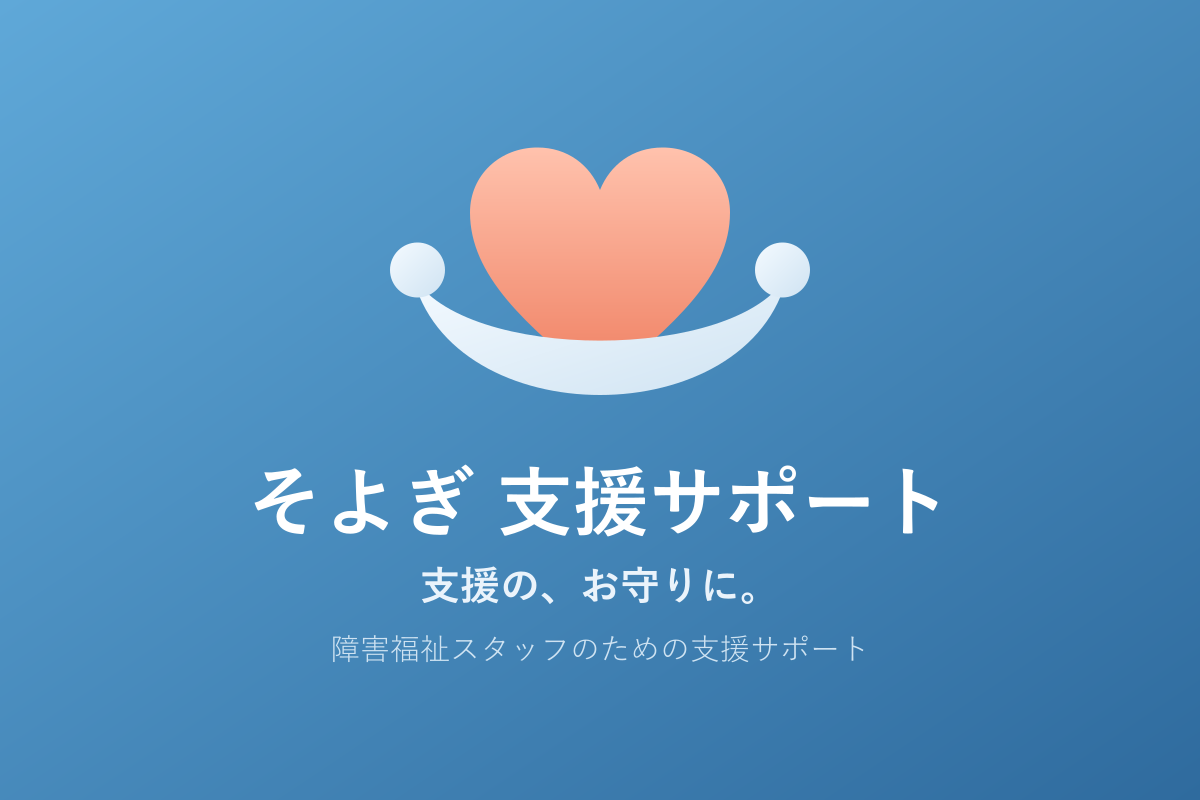
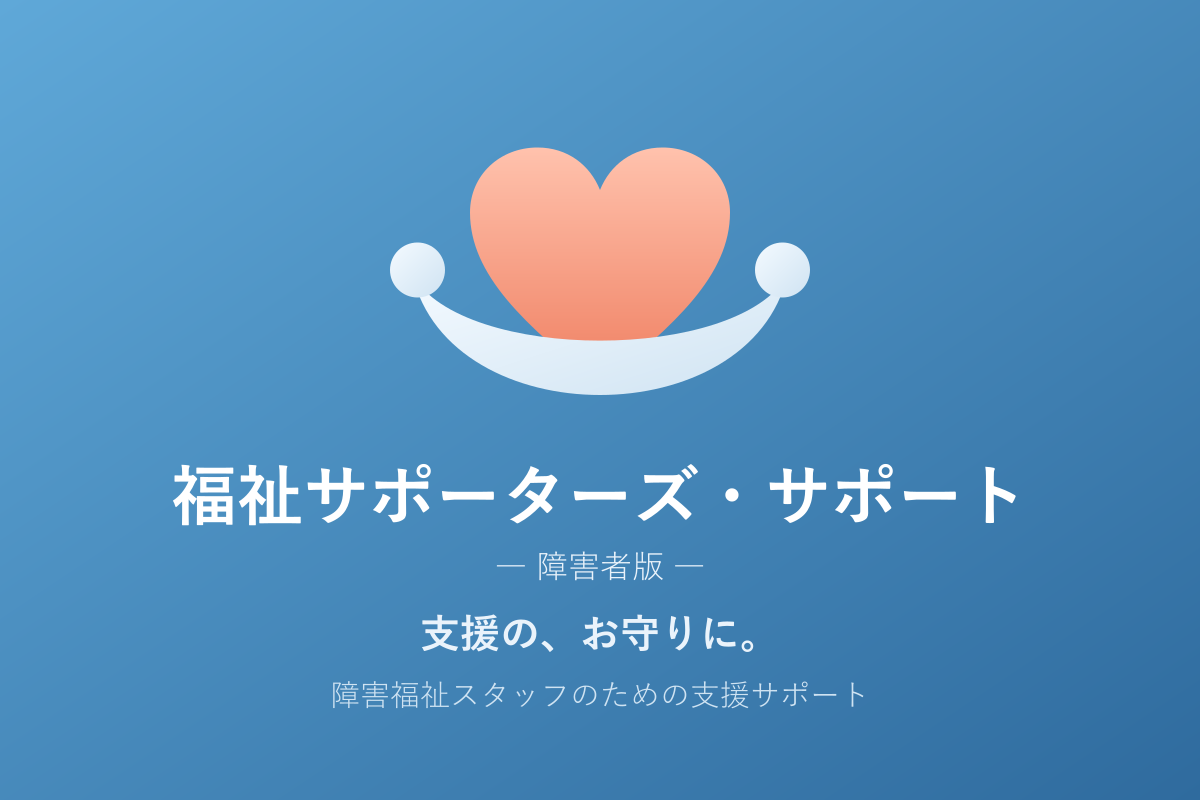
正式名称へ統一＋開発クレジット追加 — 「福祉サポーターズ・サポート（障害者版）」(旧:そよぎ 支援サポート)を全14言語appName/title/OGP/manifest/farcaster.json/埋め込み画像に反映・ホーム最下部に「アプリ開発：そよぎ」リンク・SW v26

Changed region(s): [[0.1233, 0.5625, 0.8633, 0.9062], [0.4008, 0.8438, 0.4317, 0.875]]

diff --git a/i18n.js b/i18n.js
@@ -1,5 +1,5 @@
 /*
- * そよぎ 支援サポート - UI文字列（i18n）
+ * 福祉サポーターズ・サポート（障害者版） - UI文字列（i18n）
  * 画面のラベル・ボタン等。コンテンツ本体は content.<lang>.js（SHIEN_CONTENT[lang]）。
  * 言語を足すときは：ここに SHIEN_UI.<lang> を追加し、content.<lang>.js を作る。
  * LANGS の並び順が言語切替メニューの順。dir:"rtl" は右書き言語。
@@ -26,7 +26,7 @@ window.SHIEN_LANGS = [
 
 window.SHIEN_UI.ja = {
   dir: "ltr",
-  appName: "そよぎ 支援サポート",
+  appName: "福祉サポーターズ・サポート（障害者版）",
   tagline: "支援の、お守りに。― 障害福祉スタッフのための支援サポート ―",
   nav: { scenes: "こまった", lookup: "しらべる", learn: "まなぶ", talk: "つたえる" },
   back: "← もどる",
@@ -108,7 +108,7 @@ window.SHIEN_UI.ja = {
 
 window.SHIEN_UI.en = {
   dir: "ltr",
-  appName: "Soyogi Support Guide",
+  appName: "Welfare Supporters' Support (Disability Edition)",
   tagline: "A little guardian for support. — for disability-support staff —",
   nav: { scenes: "When stuck", lookup: "Look up", learn: "Learn", talk: "Communicate" },
   back: "← Back",
@@ -190,7 +190,7 @@ window.SHIEN_UI.en = {
 
 window.SHIEN_UI.zh = {
   dir: "ltr",
-  appName: "Soyogi 支援指南",
+  appName: "福祉工作者支援（残障版）",
   tagline: "支援的护身符。—— 为残障福祉工作者 ——",
   nav: { scenes: "遇到难题", lookup: "查一查", learn: "学一学", talk: "来沟通" },
   back: "← 返回",
@@ -262,7 +262,7 @@ window.SHIEN_UI.zh = {
 
 window.SHIEN_UI.es = {
   dir: "ltr",
-  appName: "Soyogi Guía de Apoyo",
+  appName: "Apoyo para profesionales del cuidado (edición discapacidad)",
   tagline: "Un pequeño amuleto para el apoyo. — para profesionales del apoyo a la discapacidad —",
   nav: { scenes: "Ante un apuro", lookup: "Consultar", learn: "Aprender", talk: "Comunicar" },
   back: "← Atrás",
@@ -334,7 +334,7 @@ window.SHIEN_UI.es = {
 
 window.SHIEN_UI.hi = {
   dir: "ltr",
-  appName: "Soyogi सहायता गाइड",
+  appName: "कल्याण कर्मियों के लिए सहायता (दिव्यांग संस्करण)",
   tagline: "सहायता का एक छोटा-सा कवच। — विकलांगजन सहायता कर्मियों के लिए —",
   nav: { scenes: "मुश्किल में", lookup: "देखें", learn: "सीखें", talk: "बताएँ" },
   back: "← वापस",
@@ -406,7 +406,7 @@ window.SHIEN_UI.hi = {
 
 window.SHIEN_UI.pt = {
   dir: "ltr",
-  appName: "Soyogi Guia de Apoio",
+  appName: "Apoio para profissionais do cuidado (edição deficiência)",
   tagline: "Um pequeno amuleto para o apoio. — para profissionais do apoio à deficiência —",
   nav: { scenes: "Num aperto", lookup: "Consultar", learn: "Aprender", talk: "Comunicar" },
   back: "← Voltar",
@@ -478,7 +478,7 @@ window.SHIEN_UI.pt = {
 
 window.SHIEN_UI.fr = {
   dir: "ltr",
-  appName: "Soyogi Guide d'Accompagnement",
+  appName: "Soutien aux accompagnants (édition handicap)",
   tagline: "Un petit talisman pour l'accompagnement. — pour les professionnels du handicap —",
   nav: { scenes: "En difficulté", lookup: "Consulter", learn: "Apprendre", talk: "Communiquer" },
   back: "← Retour",
@@ -550,7 +550,7 @@ window.SHIEN_UI.fr = {
 
 window.SHIEN_UI.ru = {
   dir: "ltr",
-  appName: "Soyogi Гид поддержки",
+  appName: "Поддержка тех, кто поддерживает (версия: инвалидность)",
   tagline: "Маленький оберег для поддержки. — для специалистов сферы инвалидности —",
   nav: { scenes: "Трудный момент", lookup: "Справка", learn: "Учимся", talk: "Общение" },
   back: "← Назад",
@@ -622,7 +622,7 @@ window.SHIEN_UI.ru = {
 
 window.SHIEN_UI.id = {
   dir: "ltr",
-  appName: "Soyogi Panduan Dukungan",
+  appName: "Dukungan untuk Pendamping (Edisi Disabilitas)",
   tagline: "Jimat kecil untuk dukungan. — bagi staf dukungan disabilitas —",
   nav: { scenes: "Saat sulit", lookup: "Cari tahu", learn: "Belajar", talk: "Komunikasi" },
   back: "← Kembali",
@@ -694,7 +694,7 @@ window.SHIEN_UI.id = {
 
 window.SHIEN_UI.de = {
   dir: "ltr",
-  appName: "Soyogi Begleit-Guide",
+  appName: "Unterstützung für Fachkräfte (Edition Behindertenhilfe)",
   tagline: "Ein kleiner Talisman für die Begleitung. — für Fachkräfte der Behindertenhilfe —",
   nav: { scenes: "Im Notfall", lookup: "Nachschlagen", learn: "Lernen", talk: "Mitteilen" },
   back: "← Zurück",
@@ -766,7 +766,7 @@ window.SHIEN_UI.de = {
 
 window.SHIEN_UI.ko = {
   dir: "ltr",
-  appName: "Soyogi 지원 서포트",
+  appName: "복지 종사자 지원 앱 (장애인 편)",
   tagline: "지원의 부적으로. ― 장애복지 종사자를 위한 지원 서포트 ―",
   nav: { scenes: "곤란할 때", lookup: "찾아보기", learn: "배우기", talk: "전하기" },
   back: "← 뒤로",
@@ -838,7 +838,7 @@ window.SHIEN_UI.ko = {
 
 window.SHIEN_UI.it = {
   dir: "ltr",
-  appName: "Soyogi Guida al Supporto",
+  appName: "Supporto per operatori socio-sanitari (edizione disabilità)",
   tagline: "Un piccolo talismano per il supporto. — per gli operatori della disabilità —",
   nav: { scenes: "In difficoltà", lookup: "Consultare", learn: "Imparare", talk: "Comunicare" },
   back: "← Indietro",
@@ -910,7 +910,7 @@ window.SHIEN_UI.it = {
 
 window.SHIEN_UI.bn = {
   dir: "ltr",
-  appName: "Soyogi সহায়তা গাইড",
+  appName: "কল্যাণকর্মীদের সহায়তা (প্রতিবন্ধী সংস্করণ)",
   tagline: "সহায়তার এক ছোট্ট রক্ষাকবচ। — প্রতিবন্ধী-কল্যাণ কর্মীদের জন্য —",
   nav: { scenes: "বিপদে", lookup: "খুঁজে দেখা", learn: "শেখা", talk: "জানানো" },
   back: "← ফিরে যান",
@@ -982,7 +982,7 @@ window.SHIEN_UI.bn = {
 
 window.SHIEN_UI.ar = {
   dir: "rtl",
-  appName: "Soyogi دليل الدعم",
+  appName: "دعم العاملين في الرعاية (نسخة الإعاقة)",
   tagline: "تعويذة صغيرة للدعم. — للعاملين في رعاية ذوي الإعاقة —",
   nav: { scenes: "عند الشدة", lookup: "استرشاد", learn: "تعلُّم", talk: "تواصل" },
   back: "→ رجوع",

diff --git a/index.html b/index.html
@@ -3,7 +3,7 @@
 <head>
 <meta charset="UTF-8">
 <meta name="viewport" content="width=device-width, initial-scale=1.0, viewport-fit=cover">
-<title>そよぎ 支援サポート</title>
+<title>そよぎ｜福祉サポーターズ・サポート（障害者版）</title>
 <meta name="description" content="障害福祉スタッフのための支援サポート。困った場面の対応ヒント・トーキングエイド・筆談。支援の、お守りに。">
 <meta name="theme-color" content="#4e8ec4">
 <link rel="manifest" href="manifest.webmanifest">
@@ -13,16 +13,16 @@
 
 <!-- OGP / Twitter（SNS共有カード） -->
 <meta property="og:type" content="website">
-<meta property="og:title" content="そよぎ 支援サポート ― 障害福祉スタッフのための支援サポート">
+<meta property="og:title" content="福祉サポーターズサポートアプリ・そよぎ（障害者版）">
 <meta property="og:description" content="困った場面の対応ヒント・特性リファレンス・トーキングエイド・筆談。支援の、お守りに。">
 <meta property="og:image" content="https://soyogi-ws-support2-web.vercel.app/icons/farcaster-embed.png">
 <meta name="twitter:card" content="summary_large_image">
-<meta name="twitter:title" content="そよぎ 支援サポート">
+<meta name="twitter:title" content="福祉サポーターズ・サポート（障害者版）">
 <meta name="twitter:description" content="障害福祉スタッフのための支援サポートアプリ。">
 <meta name="twitter:image" content="https://soyogi-ws-support2-web.vercel.app/icons/farcaster-embed.png">
 
 <!-- Farcaster Mini App 埋め込み（デプロイ後にドメインが変われば要更新） -->
-<meta name="fc:miniapp" content='{"version":"1","imageUrl":"https://soyogi-ws-support2-web.vercel.app/icons/farcaster-embed.png","button":{"title":"🍃 ひらく / Open","action":{"type":"launch_miniapp","name":"そよぎ 支援サポート","url":"https://soyogi-ws-support2-web.vercel.app/","splashImageUrl":"https://soyogi-ws-support2-web.vercel.app/icons/icon-512.png","splashBackgroundColor":"#4e8ec4"}}}'>
+<meta name="fc:miniapp" content='{"version":"1","imageUrl":"https://soyogi-ws-support2-web.vercel.app/icons/farcaster-embed.png","button":{"title":"🍃 ひらく / Open","action":{"type":"launch_miniapp","name":"そよぎ（障害者版）","url":"https://soyogi-ws-support2-web.vercel.app/","splashImageUrl":"https://soyogi-ws-support2-web.vercel.app/icons/icon-512.png","splashBackgroundColor":"#4e8ec4"}}}'>
 
 <style>
   :root{
@@ -286,6 +286,7 @@
   nav button.on .t{ color:var(--brand); }
 
   .app-foot{ text-align:center; font-size:.72rem; color:var(--muted); padding:16px 12px 8px; }
+  .app-foot .dev-credit{ display:inline-block; margin-top:10px; color:var(--brand); text-decoration:underline; }
 </style>
 </head>
 <body>
@@ -293,7 +294,7 @@
 <header>
   <select id="langSelect" class="lang-select" aria-label="言語 / Language"></select>
   <button id="bgmToggle" class="bgm-toggle" aria-label="BGMのオン・オフ" title="BGM">🎵</button>
-  <h1 id="appName">そよぎ 支援サポート</h1>
+  <h1 id="appName">福祉サポーターズ・サポート（障害者版）</h1>
   <div class="tagline" id="tagline">支援の、お守りに。― 障害福祉スタッフのための支援サポート ―</div>
 </header>
 

diff --git a/_make_embed.js b/_make_embed.js
@@ -20,9 +20,10 @@ const svg = `<svg xmlns="http://www.w3.org/2000/svg" viewBox="0 0 1200 800" widt
     <circle cx="-146" cy="0" r="22" fill="url(#hand)"/>
     <circle cx="146" cy="0" r="22" fill="url(#hand)"/>
   </g>
-  <text x="600" y="530" text-anchor="middle" font-family="'Hiragino Maru Gothic ProN','Yu Gothic',sans-serif" font-size="76" font-weight="700" fill="#ffffff">そよぎ 支援サポート</text>
-  <text x="600" y="600" text-anchor="middle" font-family="'Hiragino Maru Gothic ProN','Yu Gothic',sans-serif" font-size="40" font-weight="700" fill="#eaf3fb">支援の、お守りに。</text>
-  <text x="600" y="660" text-anchor="middle" font-family="'Hiragino Maru Gothic ProN','Yu Gothic',sans-serif" font-size="30" fill="#cfe3f2">障害福祉スタッフのための支援サポート</text>
+  <text x="600" y="520" text-anchor="middle" font-family="'Hiragino Maru Gothic ProN','Yu Gothic',sans-serif" font-size="66" font-weight="700" fill="#ffffff">福祉サポーターズ・サポート</text>
+  <text x="600" y="578" text-anchor="middle" font-family="'Hiragino Maru Gothic ProN','Yu Gothic',sans-serif" font-size="32" fill="#eaf3fb">― 障害者版 ―</text>
+  <text x="600" y="648" text-anchor="middle" font-family="'Hiragino Maru Gothic ProN','Yu Gothic',sans-serif" font-size="40" font-weight="700" fill="#eaf3fb">支援の、お守りに。</text>
+  <text x="600" y="706" text-anchor="middle" font-family="'Hiragino Maru Gothic ProN','Yu Gothic',sans-serif" font-size="30" fill="#cfe3f2">障害福祉スタッフのための支援サポート</text>
 </svg>`;
 sharp(Buffer.from(svg)).png().toFile(path.join(__dirname, "icons", "farcaster-embed.png"))
   .then(() => console.log("embed OK (1200x800)"))

diff --git a/app.js b/app.js
@@ -1,4 +1,4 @@
-/* そよぎ 支援サポート - アプリロジック（多言語対応）
+/* 福祉サポーターズ・サポート（障害者版） - アプリロジック（多言語対応）
  * 原則：個人情報を持たない（氏名欄を作らない）・記録は端末内のみ・タップだけで数十秒で完結
  * i18n：C = SHIEN_CONTENT[lang]（本文）／ T = SHIEN_UI[lang]（UI文字列）
  */
@@ -125,7 +125,8 @@
     });
     html += "</div>";
     html += '<div class="footer-links"><button id="openLogs">' + esc(T.seeLogs) + "</button></div>";
-    html += '<div class="app-foot">' + esc(T.footMedical) + "<br>" + esc(T.footPrivacy) + "</div>";
+    html += '<div class="app-foot">' + esc(T.footMedical) + "<br>" + esc(T.footPrivacy) +
+      '<br><a class="dev-credit" href="https://soyogi.hp.peraichi.com/top" target="_blank" rel="noopener">アプリ開発：介護と支援の相談どころ　そよぎ</a></div>';
     $("#view-scenes").innerHTML = html;
     document.querySelectorAll("#view-scenes [data-id]").forEach(function (b) {
       b.addEventListener("click", function () { renderDetail(b.dataset.id); show("detail"); });

diff --git a/sw.js b/sw.js
@@ -1,9 +1,9 @@
 /*
- * そよぎ 支援サポート - Service Worker
+ * 福祉サポーターズ・サポート（障害者版） - Service Worker
  * オフラインで完全に動くよう、アプリ一式をキャッシュします。
  * 中身を更新したら CACHE の数字を上げてください（例 v1 -> v2）。
  */
-var CACHE = "shien-v25";
+var CACHE = "shien-v26";
 var ASSETS = [
   "./",
   "./index.html",

diff --git a/audio.js b/audio.js
@@ -1,5 +1,5 @@
 /*
- * そよぎ 支援サポート（障害者版） - Audio Engine（Web Audio 合成のみ・音源ファイル不要・完全オフライン）
+ * 福祉サポーターズ・サポート（障害者版） - Audio Engine（Web Audio 合成のみ・音源ファイル不要・完全オフライン）
  * ----------------------------------------------------------------------------
  * 穏やかなケア向け：ゆったりしたアンビエントBGM（ドラム無し・柔らかいパッド＋
  * まばらなチャイム）。BGM音量を調整・保存。緊急時に即ミュートできる想定。

diff --git a/content.ar.js b/content.ar.js
@@ -1,5 +1,5 @@
 /*
- * Soyogi دليل الدعم - المحتوى (العربية)
+ * دعم العاملين في الرعاية (نسخة الإعاقة) - المحتوى (العربية)
  * المبادئ:
  *  - ما هنا «ميول وإشارات» لا تصنيفات. الشخص الذي أمامك أولاً دائماً.
  *  - لا قرارات طبية. عند الشك، وجِّه إلى رقم الطوارئ المحلي / تعليمات الطبيب المعالج.

diff --git a/content.bn.js b/content.bn.js
@@ -1,5 +1,5 @@
 /*
- * Soyogi সহায়তা গাইড - কনটেন্ট (বাংলা)
+ * কল্যাণকর্মীদের সহায়তা (প্রতিবন্ধী সংস্করণ) - কনটেন্ট (বাংলা)
  * নীতি:
  *  - এখানে যা আছে তা «প্রবণতা ও ইঙ্গিত», কোনো তকমা নয়। সামনে থাকা মানুষটিই সবার আগে।
  *  - কোনো চিকিৎসাগত সিদ্ধান্ত নয়। দ্বিধা হলে স্থানীয় জরুরি নম্বর / চিকিৎসকের নির্দেশনার দিকে পথ দেখান।

diff --git a/content.de.js b/content.de.js
@@ -1,5 +1,5 @@
 /*
- * Soyogi Begleit-Guide - Inhalte (Deutsch)
+ * Unterstützung für Fachkräfte (Edition Behindertenhilfe) - Inhalte (Deutsch)
  * Grundsätze:
  *  - Dies sind Tendenzen und Hinweise, keine Etiketten. Der Mensch vor Ihnen kommt zuerst.
  *  - Keine medizinischen Entscheidungen. Im Zweifel an den örtlichen Notruf / die behandelnde Ärztin, den Arzt verweisen.

diff --git a/content.en.js b/content.en.js
@@ -1,5 +1,5 @@
 /*
- * Soyogi Support Guide - Content (English)
+ * Welfare Supporters' Support (Disability Edition) - Content (English)
  * Principles:
  *  - These are tendencies and hints. Never labels. The person in front of you comes first.
  *  - No medical decisions. When in doubt, guide to local emergency services / the person's doctor.

diff --git a/content.es.js b/content.es.js
@@ -1,5 +1,5 @@
 /*
- * Soyogi Guía de Apoyo - Contenido (Español)
+ * Apoyo para profesionales del cuidado (edición discapacidad) - Contenido (Español)
  * Principios: son tendencias y pistas, nunca etiquetas. La persona que tienes delante es lo primero.
  *  No toma decisiones médicas. Ante la duda, guía al número de emergencias local / al médico.
  *  La estructura (id / emoji / índices de respuesta / referencias de escena) es idéntica a content.ja.js.

diff --git a/content.fr.js b/content.fr.js
@@ -1,5 +1,5 @@
 /*
- * Soyogi Guide d'Accompagnement - Contenu (français)
+ * Soutien aux accompagnants (édition handicap) - Contenu (français)
  * Principes :
  *  - Ce sont des tendances et des pistes, jamais des étiquettes. La personne en face de vous passe avant tout.
  *  - Pas de décision médicale. En cas de doute, orienter vers les urgences locales / le médecin traitant.